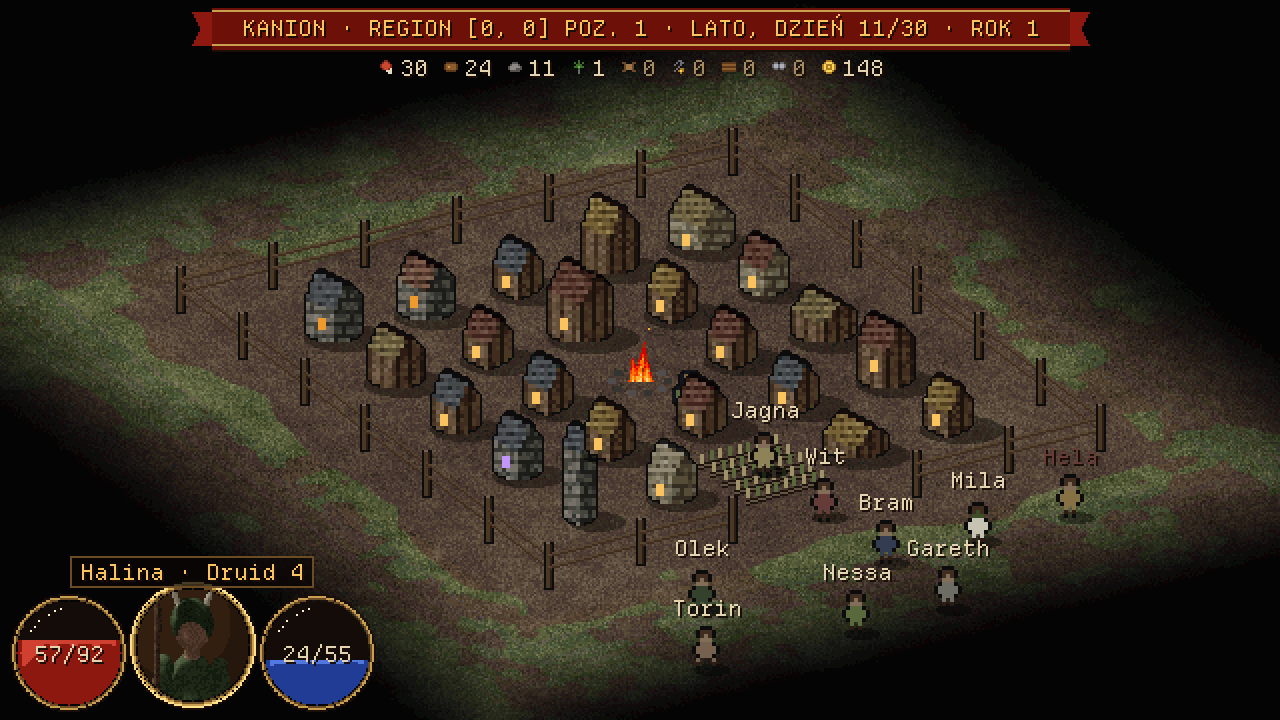
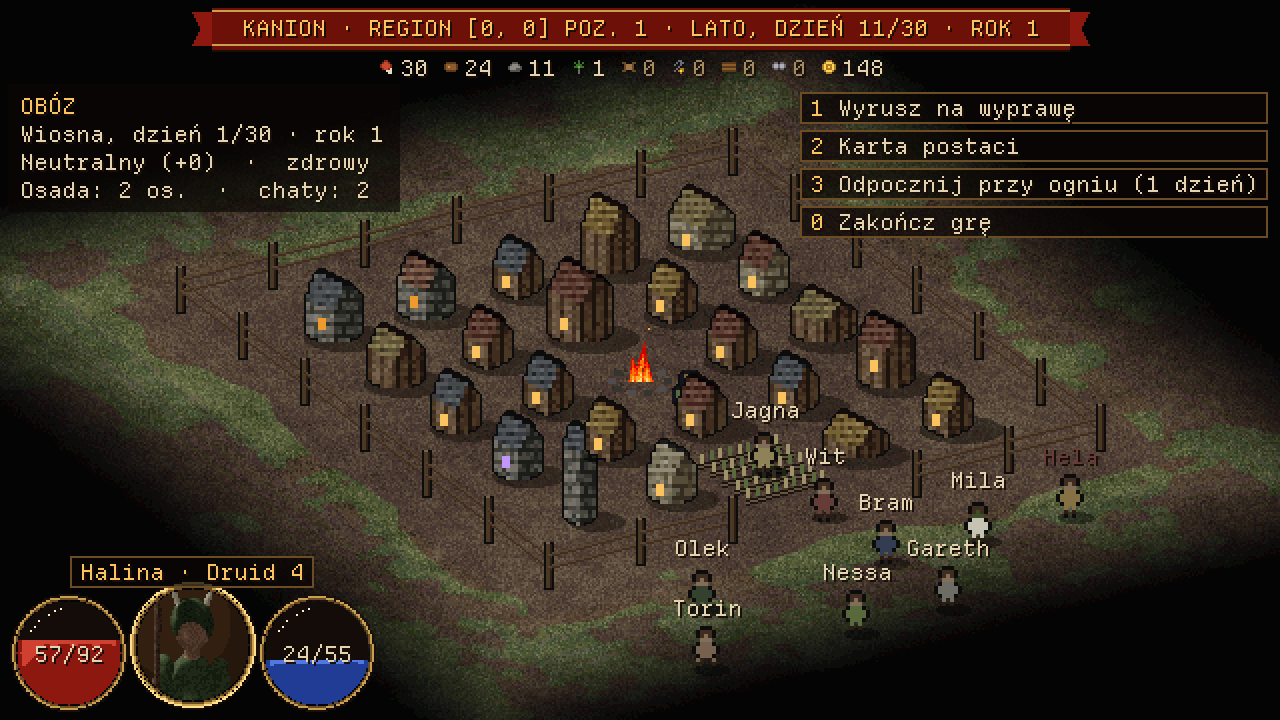
fix(unity): menu obozu nie zaslania sceny osady
W stylu hybrydowym menu obozu rysowalo sie panelem na srodku ekranu i
przykrywalo caly plac. Teraz na placu informacje (tytul i podsumowanie)
ida do lewego gornego rogu, a opcje do klikalnych plakietek w prawym
gornym rogu, wolnym kacie sceny; dol zajmuje dziedziniec z osadnikami.
Tekstowe ekrany (karta postaci, odpoczynek) dalej uzywaja panelu.

Test porownuje srodek placu z menu i bez menu; wylaczenie poprawki go
wywala. Podglady hybrydowe pokazuja prawdziwe menu obozu.

Changed region(s): [[0.625, 0.1222, 1.0, 0.3361], [0.0, 0.1222, 0.3125, 0.3056]]

diff --git a/unity/GraSimply/Assets/Scripts/Grafika/PulpitFantasy.cs b/unity/GraSimply/Assets/Scripts/Grafika/PulpitFantasy.cs
@@ -146,6 +146,14 @@ namespace GraSimply.Grafika
                 Dziennik(true);
                 StosPrzyciskow(new List<OpcjaEkranu> { new OpcjaEkranu { Klawisz = "", Tekst = "Dalej »" } }, null, false);
             }
+            else if (podpisy != null && konsola.Pyta && !ekran.CzekaNaTekst && !ekran.CzekaNaEnter
+                     && ekran.Opcje.Count > 0)
+            {
+                // Plac osady jest sceną, a nie tłem: menu obozu nie może go przykryć
+                // panelem na środku. Treść idzie do rogu, opcje do plakietek z boku.
+                InfoObozu(ekran);
+                OpcjeObozu(ekran.Opcje, konsola.Wpisywane, konsola.Kursor);
+            }
             else if (konsola.Pyta)
             {
                 Panel(ekran, konsola);
@@ -492,6 +500,115 @@ namespace GraSimply.Grafika
             {
                 string pole = "› " + wpisywane + (kursor ? "▌" : " ");
                 Plakietka(pole, W - 6 - (pole.Length * Znak + 10), y, Styl.Aktywny.Wyrozniony, false);
+            }
+        }
+
+        // ------------------------------------------------------------------ //
+        //  Menu obozu na placu osady: z boku, żeby nie zasłaniać sceny         //
+        // ------------------------------------------------------------------ //
+
+        /// <summary>Szerokość kolumny informacji obozu w znakach — mieści się nad skrajem placu.</summary>
+        private const int ZnakowInfoObozu = 26;
+
+        /// <summary>Ile wierszy informacji obozu pokazujemy — reszta zasłoniłaby plac.</summary>
+        private const int WierszyInfoObozu = 5;
+
+        /// <summary>Tytuł i krótkie podsumowanie obozu w lewym górnym rogu, na ciemnej plakietce.</summary>
+        private void InfoObozu(EkranGry e)
+        {
+            var wiersze = new List<string>();
+            foreach (string l in e.Tresc)
+            {
+                // Uwagi w nawiasach („dojdą w kolejnym etapie”) to przypisy dla grającego
+                // w konsolę — na placu zajęłyby tylko miejsce.
+                if (l.TrimStart().StartsWith("(", StringComparison.Ordinal))
+                {
+                    continue;
+                }
+                foreach (string w in Konsola.Zawin(l, ZnakowInfoObozu))
+                {
+                    string c = w.Trim();
+                    if (c.Length > 0)
+                    {
+                        wiersze.Add(c);
+                    }
+                }
+            }
+            if (wiersze.Count > WierszyInfoObozu)
+            {
+                wiersze.RemoveRange(WierszyInfoObozu, wiersze.Count - WierszyInfoObozu);
+            }
+            bool tytul = e.Tytul.Length > 0;
+            if (wiersze.Count == 0 && !tytul)
+            {
+                return;
+            }
+            int znakow = tytul ? e.Tytul.Length : 0;
+            foreach (string w in wiersze)
+            {
+                znakow = Math.Max(znakow, w.Length);
+            }
+            int wys = (wiersze.Count + (tytul ? 1 : 0)) * Wiersz + 8;
+            Przyciemnij(4, 42, znakow * Znak + 14, wys, 170);
+            int y = 46;
+            if (tytul)
+            {
+                Tekst(e.Tytul.ToUpperInvariant(), 10, y, Styl.Aktywny.Wyrozniony);
+                y += Wiersz;
+            }
+            foreach (string w in wiersze)
+            {
+                Tekst(w, 10, y, Styl.Aktywny.Tekst);
+                y += Wiersz;
+            }
+        }
+
+        /// <summary>
+        /// Plakietki opcji obozu w prawym górnym rogu, od góry w dół — to wolny kąt
+        /// sceny (lustrzany do informacji po lewej); dół zajmuje dziedziniec, na którym
+        /// czekają osadnicy. Przy dłuższej liście kolejne kolumny idą w lewo.
+        /// </summary>
+        private void OpcjeObozu(List<OpcjaEkranu> opcje, string wpisywane, bool kursor)
+        {
+            const int naKolumne = 9;
+            const int gora = 46;
+            int kolumn = (opcje.Count + naKolumne - 1) / naKolumne;
+            int x = W - 6;
+            int dolPierwszej = gora;
+            for (int c = 0; c < kolumn; c++)
+            {
+                int od = c * naKolumne;
+                int ile = Math.Min(naKolumne, opcje.Count - od);
+                int szer = 0;
+                var napisy = new string[ile];
+                for (int i = 0; i < ile; i++)
+                {
+                    OpcjaEkranu o = opcje[od + i];
+                    string napis = string.IsNullOrEmpty(o.Klawisz) ? o.Tekst : $"{o.Klawisz} {o.Tekst}";
+                    if (napis.Length > 38)
+                    {
+                        napis = napis.Substring(0, 37) + "…";
+                    }
+                    napisy[i] = napis;
+                    szer = Math.Max(szer, napis.Length * Znak + 10);
+                }
+                x -= szer;
+                int y = gora;
+                for (int i = 0; i < ile; i++)
+                {
+                    Plakietka(napisy[i], x, y, Styl.Aktywny.Tekst, true, opcje[od + i].Klawisz ?? "", szer);
+                    y += 19;
+                }
+                if (c == 0)
+                {
+                    dolPierwszej = y;
+                }
+                x -= 6;
+            }
+            if (!string.IsNullOrEmpty(wpisywane))
+            {
+                string pole = "› " + wpisywane + (kursor ? "▌" : " ");
+                Plakietka(pole, W - 6 - (pole.Length * Znak + 10), dolPierwszej, Styl.Aktywny.Wyrozniony, false);
             }
         }
 

diff --git a/unity/Testy/TestyHybrydy.cs b/unity/Testy/TestyHybrydy.cs
@@ -354,6 +354,27 @@ namespace GraSimply.Testy
                             obozMigawka.Klasa, false, obozMigawka.Osada, default, null, obozMigawka.Plac);
                 Harness.Sprawdz("obóz rysuje plac zamiast mapy", !zMapa.SequenceEqual(pulpit.Klatka.Dane));
 
+                // Menu obozu z prawdziwej gry nie może przykryć sceny: środek placu wygląda
+                // tak samo z menu i bez niego, a opcje są klikalnymi plakietkami z boku.
+                var konsolaObozu = new Konsola_();
+                var bezMenu = new Pulpit();
+                bezMenu.Zloz(obozMigawka.Pola, 1.0, obozMigawka.Hud, obozMigawka.Region, obozMigawka.GraczXy,
+                             obozMigawka.Klasa, false, obozMigawka.Osada, default, null, obozMigawka.Plac);
+                byte[] srodekBezMenu = Wytnij(bezMenu.Klatka, 520, 260, 340, 250);
+                var zMenu = new Pulpit();
+                zMenu.Zloz(obozMigawka.Pola, 1.0, obozMigawka.Hud, obozMigawka.Region, obozMigawka.GraczXy,
+                           obozMigawka.Klasa, false, obozMigawka.Osada, konsolaObozu.Stan, null, obozMigawka.Plac);
+                Harness.Sprawdz("menu obozu nie zasłania środka placu",
+                                srodekBezMenu.SequenceEqual(Wytnij(zMenu.Klatka, 520, 260, 340, 250)));
+                Harness.Sprawdz("menu obozu zmienia obraz (jest narysowane)",
+                                !bezMenu.Klatka.Dane.SequenceEqual(zMenu.Klatka.Dane));
+                Harness.Rowne("każda opcja obozu to przycisk", konsolaObozu.OpcjiMenu, zMenu.Przyciski.Count);
+                Harness.Sprawdz("przyciski mieszczą się na ekranie",
+                                zMenu.Przyciski.All(b => b.X >= 0 && b.Y >= 0 && b.X + b.Szer <= Pulpit.Szerokosc
+                                                         && b.Y + b.Wys <= Pulpit.Wysokosc));
+                Harness.Sprawdz("przyciski nie wchodzą na środek placu",
+                                zMenu.Przyciski.All(b => b.Y + b.Wys <= 260 || b.X >= 860 || b.X + b.Szer <= 520));
+
                 var napisy = pulpit.Zloz(obozMigawka.Pola, 1.0, obozMigawka.Hud, obozMigawka.Region, obozMigawka.GraczXy,
                                          obozMigawka.Klasa, false, obozMigawka.Osada, default, null, obozMigawka.Plac);
                 foreach (OsadnikDoRysunku o in obozMigawka.Plac.Osadnicy)
@@ -373,6 +394,38 @@ namespace GraSimply.Testy
             finally
             {
                 Styl.Aktywny = poprzedni;
+            }
+        }
+
+        /// <summary>Wycinek klatki pulpitu — do porównań fragmentów obrazu.</summary>
+        private static byte[] Wytnij(Plotno p, int x0, int y0, int szer, int wys)
+        {
+            var wynik = new byte[szer * wys * 4];
+            for (int y = 0; y < wys; y++)
+            {
+                Buffer.BlockCopy(p.Dane, ((y0 + y) * p.Szerokosc + x0) * 4, wynik, y * szer * 4, szer * 4);
+            }
+            return wynik;
+        }
+
+        /// <summary>Menu obozu z prawdziwej gry, przepuszczonej przez konsolę testową.</summary>
+        private sealed class Konsola_
+        {
+            public readonly StanKonsoli Stan;
+            public readonly int OpcjiMenu;
+
+            public Konsola_()
+            {
+                var konsola = new KonsolaTestowa(new[] { "1", "Halina", "4", "" });
+                new Logika.Gra(konsola, new Ekran(), new Losowanie(2024)).Uruchom();
+                var linie = new List<string>(konsola.Ekran.TrimEnd('\n').Split('\n'));
+                string zacheta = konsola.Pytania.Count > 0 ? konsola.Pytania[konsola.Pytania.Count - 1] : "";
+                Stan = new StanKonsoli
+                {
+                    Linie = linie, Pyta = true, Wpisywane = "", Kursor = true,
+                    CzekaNaEnter = zacheta.IndexOf("Enter", StringComparison.Ordinal) >= 0,
+                };
+                OpcjiMenu = EkranGry.Z(linie, true, Stan.CzekaNaEnter).Opcje.Count;
             }
         }
 

diff --git a/unity/Testy/Podglad.cs b/unity/Testy/Podglad.cs
@@ -150,6 +150,12 @@ namespace GraSimply.Testy
                 ("osada-obozek", 0.35, 5, 1, male, 2, false),
                 ("osada-f2", 0.35, 40, 4, srednie, 7, true),
             };
+            // Menu obozu z prawdziwej gry — tak jak widzi je gracz na placu.
+            (List<string> liniaObozu, bool naEnterObozu) = EkranKonsoli(new List<string> { "1", "Halina", "4", "" });
+            var menuObozu = new StanKonsoli
+            {
+                Linie = liniaObozu, Pyta = true, CzekaNaEnter = naEnterObozu, Wpisywane = "", Kursor = true,
+            };
             foreach ((string nazwa, double u, int czasGry, int chaty, Dictionary<string, int> budynki,
                       int ludzi, bool zmierzch) in klatki)
             {
@@ -162,13 +168,13 @@ namespace GraSimply.Testy
                 for (double t = cel - 48; t <= cel + 1e-9; t += 12)
                 {
                     napisy = pulpit.Zloz(m.Pola, t, m.Hud, m.Region, m.GraczXy, m.Klasa, false, m.Osada,
-                                         default, null, m.Plac);
+                                         menuObozu, null, m.Plac);
                 }
                 // Ostatnie kilka klatek zwykłym tempem — ruch bez skoku.
                 for (int i = 1; i <= 6; i++)
                 {
                     napisy = pulpit.Zloz(m.Pola, cel + i * 0.05, m.Hud, m.Region, m.GraczXy, m.Klasa, false,
-                                         m.Osada, default, null, m.Plac);
+                                         m.Osada, menuObozu, null, m.Plac);
                 }
                 ZapiszKlatke(katalog, nazwa, pulpit, napisy);
             }
